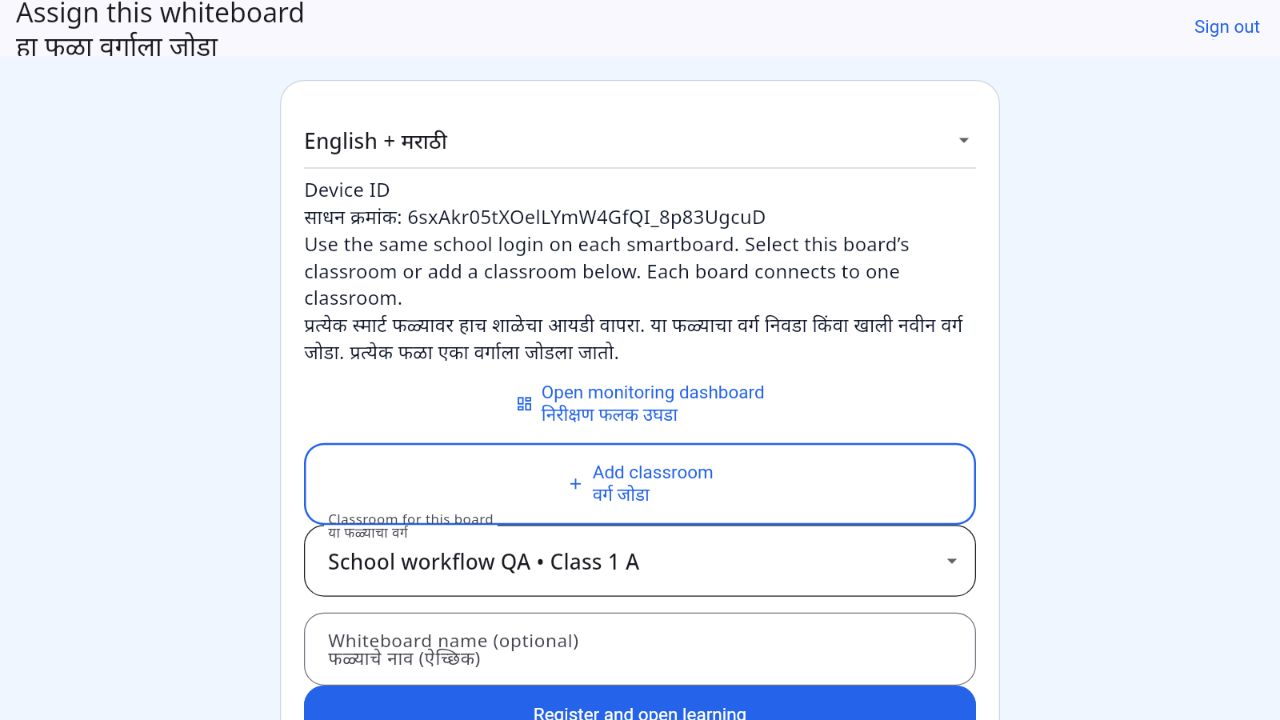
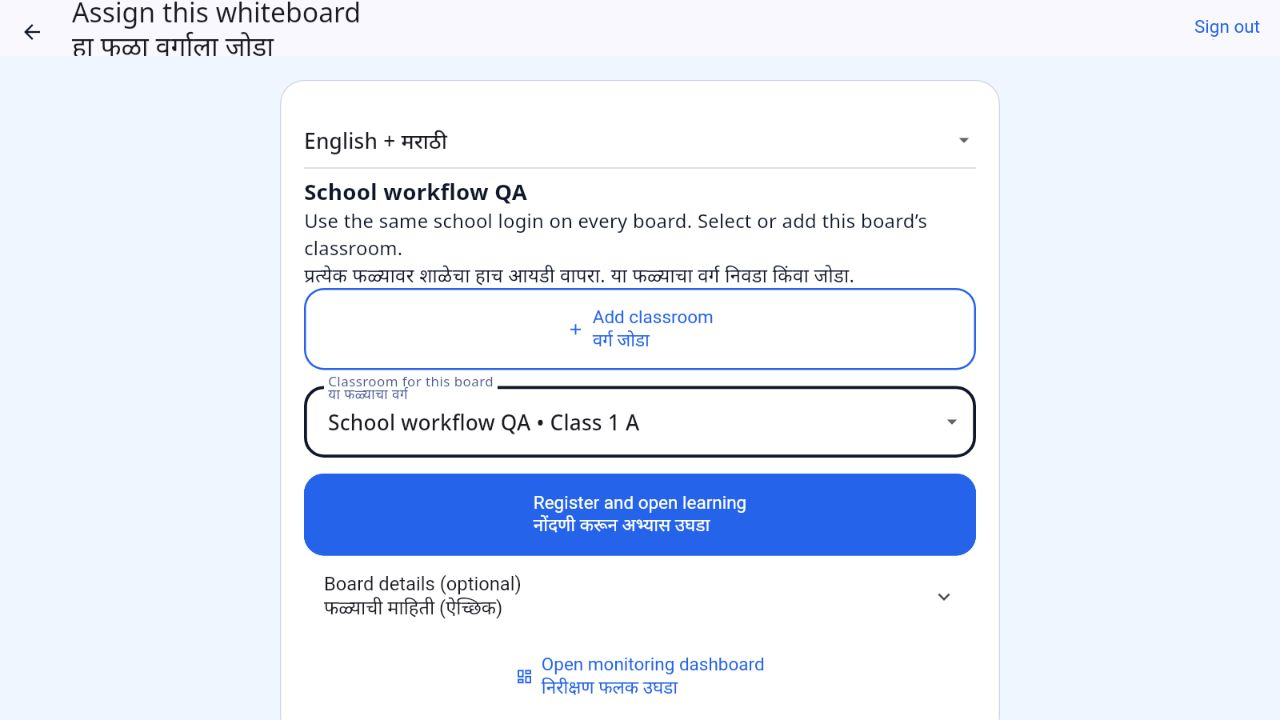
Keep school board setup focused on classroom connection

Changed region(s): [[0.2188, 0.2444, 0.7812, 0.8556], [0.2188, 0.8861, 0.7812, 1.0], [0.0, 0.0, 0.2812, 0.0917]]

diff --git a/lib/management.dart b/lib/management.dart
@@ -594,23 +594,20 @@ class _EnrollmentState extends State<ClassroomEnrollmentPage> {
               crossAxisAlignment: CrossAxisAlignment.stretch,
               children: [
                 const CentralLanguageSelector(),
-                Text(
-                  '${tr('Device ID', 'साधन क्रमांक')}: ${account.installation}',
-                ),
-                Text(
-                  tr(
-                    'Use the same school login on each smartboard. Select this board’s classroom or add a classroom below. Each board connects to one classroom.',
-                    'प्रत्येक स्मार्ट फळ्यावर हाच शाळेचा आयडी वापरा. या फळ्याचा वर्ग निवडा किंवा खाली नवीन वर्ग जोडा. प्रत्येक फळा एका वर्गाला जोडला जातो.',
-                  ),
-                ),
-                if (kIsWeb)
-                  TextButton.icon(
-                    onPressed: () => browserPortal(true, false),
-                    icon: const Icon(Icons.dashboard_outlined),
-                    label: Text(
-                      tr('Open monitoring dashboard', 'निरीक्षण फलक उघडा'),
+                if (account.schools.length == 1)
+                  Text(
+                    account.schools.single['name'].toString(),
+                    style: const TextStyle(
+                      fontSize: 22,
+                      fontWeight: FontWeight.bold,
                     ),
                   ),
+                Text(
+                  tr(
+                    'Use the same school login on every board. Select or add this board’s classroom.',
+                    'प्रत्येक फळ्यावर शाळेचा हाच आयडी वापरा. या फळ्याचा वर्ग निवडा किंवा जोडा.',
+                  ),
+                ),
                 if (account.isClassroomAdministrator &&
                     account.schools
                             .where((s) => s['status'] == 'active')
@@ -621,6 +618,7 @@ class _EnrollmentState extends State<ClassroomEnrollmentPage> {
                     icon: const Icon(Icons.add),
                     label: Text(tr('Add classroom', 'वर्ग जोडा')),
                   ),
+                const SizedBox(height: 16),
                 if (account.classrooms.isEmpty)
                   Text(
                     tr(
@@ -656,15 +654,6 @@ class _EnrollmentState extends State<ClassroomEnrollmentPage> {
                     onChanged: (value) => setState(() => classroomId = value),
                   ),
                 const SizedBox(height: 16),
-                TextField(
-                  controller: name,
-                  decoration: InputDecoration(
-                    labelText: tr(
-                      'Whiteboard name (optional)',
-                      'फळ्याचे नाव (ऐच्छिक)',
-                    ),
-                  ),
-                ),
                 if (error.isNotEmpty) Text(error),
                 FilledButton(
                   onPressed:
@@ -699,6 +688,33 @@ class _EnrollmentState extends State<ClassroomEnrollmentPage> {
                     tr('Register and open learning', 'नोंदणी करून अभ्यास उघडा'),
                   ),
                 ),
+                ExpansionTile(
+                  title: Text(
+                    tr('Board details (optional)', 'फळ्याची माहिती (ऐच्छिक)'),
+                  ),
+                  children: [
+                    TextField(
+                      controller: name,
+                      decoration: InputDecoration(
+                        labelText: tr(
+                          'Whiteboard name (optional)',
+                          'फळ्याचे नाव (ऐच्छिक)',
+                        ),
+                      ),
+                    ),
+                    SelectableText(
+                      '${tr('Device ID', 'साधन क्रमांक')}: ${account.installation}',
+                    ),
+                  ],
+                ),
+                if (kIsWeb)
+                  TextButton.icon(
+                    onPressed: () => browserPortal(true, false),
+                    icon: const Icon(Icons.dashboard_outlined),
+                    label: Text(
+                      tr('Open monitoring dashboard', 'निरीक्षण फलक उघडा'),
+                    ),
+                  ),
               ],
             ),
           ),
@@ -2208,7 +2224,7 @@ class _ManagementPageState extends State<ManagementPage> {
           'अलीकडे सक्रिय वर्ग',
           o['recentlyActiveClassrooms'],
         ),
-        ('Active teachers', 'सक्रिय शिक्षक', o['activeTeachers']),
+        ('Active accounts', 'सक्रिय खाती', o['activeTeachers']),
         ('Active lessons', 'सुरू धडे', o['activeLessons']),
         ('Active practice sessions', 'सुरू सराव सत्रे', o['activePractice']),
         ('Active quizzes', 'सुरू प्रश्नमंजुषा', o['activeQuizzes']),
@@ -2462,9 +2478,10 @@ class _ManagementPageState extends State<ManagementPage> {
         Text(
           '${tr('Class', 'इयत्ता')} ${room['grade']} • ${room['section']} • ${room['status'] == 'active' ? tr('Active', 'सक्रिय') : tr('Disabled / archived', 'बंद / संग्रहित')}',
         ),
-        Text(
-          '${tr('Assigned teachers', 'नेमलेले शिक्षक')}: ${(room['teacher_ids'] as List).map((id) => nameOf('users', id)).join(', ')}',
-        ),
+        if (monitor.isSuperAdmin || (room['teacher_ids'] as List).isNotEmpty)
+          Text(
+            '${tr('Assigned teachers', 'नेमलेले शिक्षक')}: ${(room['teacher_ids'] as List).map((id) => nameOf('users', id)).join(', ')}',
+          ),
         Text(
           '${tr('Current activity', 'चालू कृती')}: ${(room['current_activities'] as List).map((item) => '${modeLabel(item['mode'])} ${chapterLabel(item['chapter'])}').join(' • ')}',
         ),
@@ -2872,7 +2889,7 @@ class _ManagementPageState extends State<ManagementPage> {
       for (final metric in [
         ('practiceByClass', 'Practice by class', 'इयत्तेनुसार सराव'),
         ('quizByClass', 'Quiz by class', 'इयत्तेनुसार प्रश्नमंजुषा'),
-        ('teacherActivity', 'Teacher activity', 'शिक्षकांच्या कृती'),
+        ('teacherActivity', 'Account activity', 'खात्यांच्या कृती'),
         ('versionDistribution', 'Version distribution', 'आवृत्ती वितरण'),
         ('errorFrequency', 'Error frequency', 'त्रुटींची वारंवारता'),
       ])

diff --git a/lib/dashboard_visuals.dart b/lib/dashboard_visuals.dart
@@ -893,8 +893,8 @@ class DashboardOverview extends StatelessWidget {
                   : tr('Last known activity', 'शेवटची मिळालेली कृती'),
               value: '$active',
               note: tr(
-                '${_dashInt(o['activeTeachers'])} active teachers',
-                '${_dashInt(o['activeTeachers'])} सक्रिय शिक्षक',
+                '${_dashInt(o['activeTeachers'])} active accounts',
+                '${_dashInt(o['activeTeachers'])} सक्रिय खाती',
               ),
               icon: Icons.auto_stories_rounded,
               color: _dashTeal,
@@ -1443,7 +1443,7 @@ class DashboardAnalytics extends StatelessWidget {
         const SizedBox(height: 22),
         DashboardColumns(
           left: DashboardPanel(
-            title: tr('Teacher activity', 'शिक्षकांच्या कृती'),
+            title: tr('Account activity', 'खात्यांच्या कृती'),
             subtitle: tr(
               'Classroom session starts',
               'वर्गात सुरू झालेली सत्रे',

diff --git a/test/dashboard_visuals_test.dart b/test/dashboard_visuals_test.dart
@@ -298,7 +298,8 @@ void main() {
       );
       await tester.tap(find.text('Mango classroom'));
       await tester.pump(const Duration(milliseconds: 600));
-      expect(find.textContaining('Assigned teachers'), findsOneWidget);
+      expect(find.textContaining('Current activity:'), findsOneWidget);
+      expect(find.textContaining('Assigned teachers'), findsNothing);
       expect(find.text('Edit classroom'), findsNothing);
       expect(find.text('Assign teachers'), findsNothing);
       expect(tester.takeException(), isNull);

diff --git a/docs/SCHOOL_LOGIN_WORKFLOW.md b/docs/SCHOOL_LOGIN_WORKFLOW.md
@@ -5,7 +5,7 @@
 1. The central administrator opens **Dashboard → Schools → Add school**.
 2. Saving generates one School ID and a random password for that school. Copy/save the credentials from the one-time dialog.
 3. The school uses those same credentials on the dashboard and classroom application.
-4. On each smartboard, sign in, select an existing classroom or tap **Add classroom**, then **Register and open learning**. The board name is optional and defaults to the classroom name.
+4. On each smartboard, sign in, select an existing classroom or tap **Add classroom**, then **Register and open learning**. The board name is optional under **Board details** and defaults to the classroom name. Device IDs are also kept inside that optional section.
 5. The school's dashboard shows only its own classrooms, connected boards and activity. Separate teacher, student and classroom passwords are not required.
 
 For a school created before this update, the central administrator opens its details and chooses **Generate school login**. The school ID remains visible in school details; the password cannot be read back after the one-time dialog is dismissed. Existing password-reset tools remain available to the central administrator. Existing users and assignments are preserved.
@@ -19,6 +19,7 @@ For a school created before this update, the central administrator opens its det
 - School users can create and manage their own classrooms and enroll boards without individual teacher assignments. Cross-school creation and enrollment are rejected by the API.
 - The classroom app takes an unconnected school login directly to board setup. Mathematics opens after successful enrollment. The central super administrator retains unlinked learning access.
 - School dashboard guidance presents classroom creation and the learning-app link. Separate teacher-account administration is omitted from the school sidebar; central administrator tools remain available.
+- Activity charts describe active accounts and account activity. A shared school account is not presented as individual teacher attendance; classroom/board activity remains separate.
 - All new interface instructions and labels support English, Marathi and combined modes. Existing language switching, lesson content and quiz behaviour are preserved.
 - The admin-only dashboard demo preview remains unchanged and is unavailable to generated school accounts. No demo mode is added to the learning app.
 - Existing signed offline classroom grants, HTTPS, school isolation and session-only quiz-score behaviour remain in place. Monitoring requires a network connection; offline learning follows the existing grant policy.
